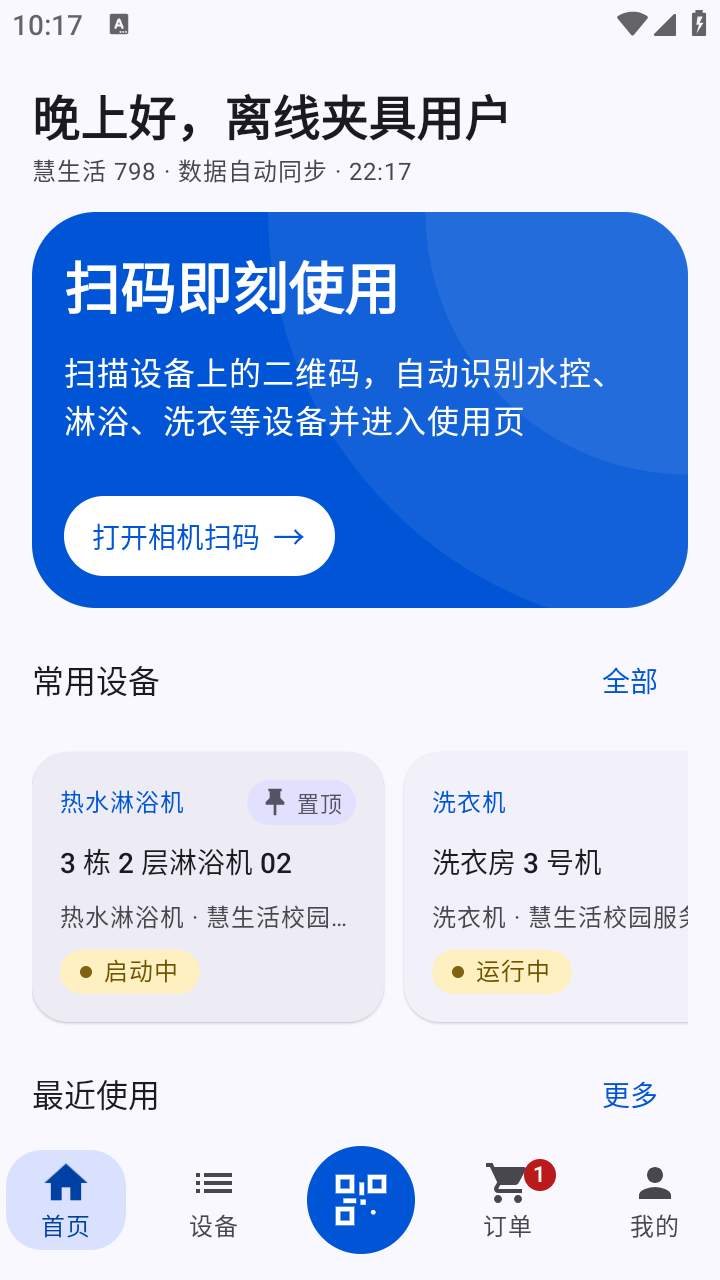
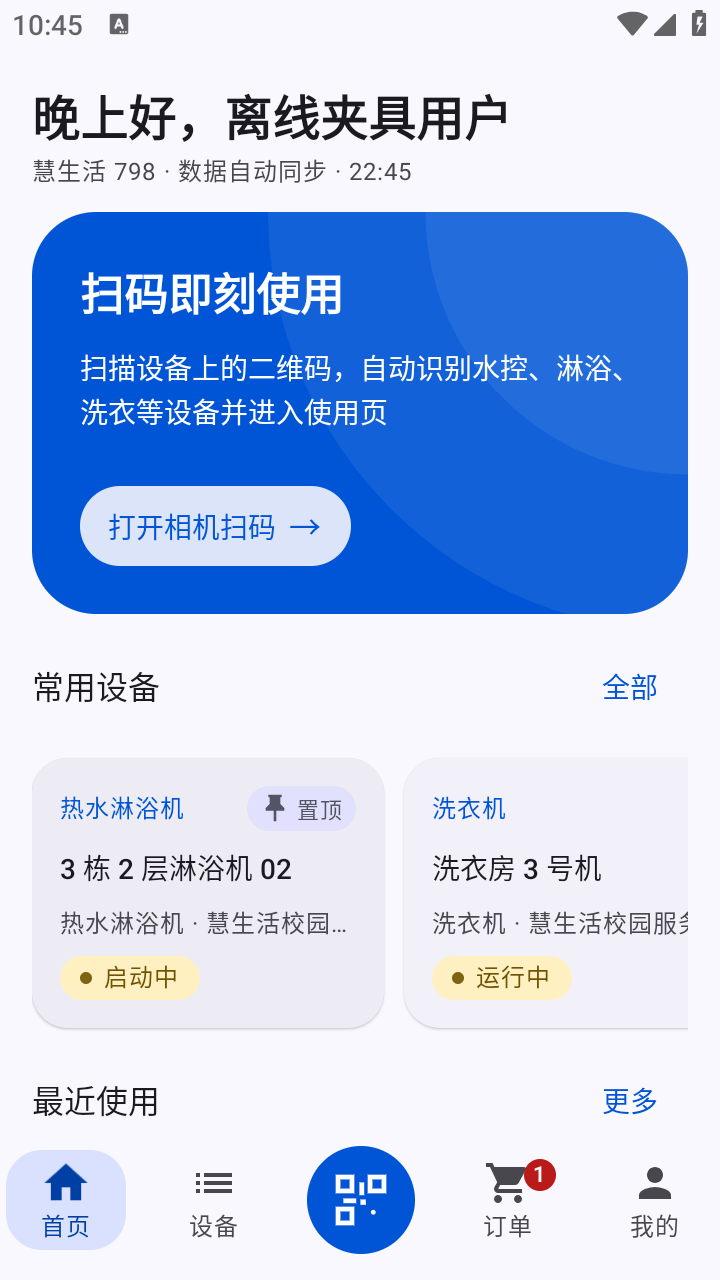
fix(ui): 改善账单开场反馈、预测返回与扫码卡片层级 (#67)
* fix(ui): 改善账单打开反馈与返回手势并舒缓扫码卡片

* test(ui): 验证账单预测返回预览与取消

---------

diff --git a/SmartLife798/app/src/androidTest/java/com/smartlife798/app/BillSheetChecks.kt b/SmartLife798/app/src/androidTest/java/com/smartlife798/app/BillSheetChecks.kt
@@ -71,8 +71,8 @@ object BillSheetChecks {
                 val data = when {
                     path.endsWith("/bill/lst-owner") -> gson.toJson(rows)
                     path.endsWith("/bill/view-full") -> {
-                        details.incrementAndGet()
-                        Thread.sleep(250)
+                        val read = details.incrementAndGet()
+                        Thread.sleep(if (read >= 3) 1800 else 250)
                         val id = chain.request().url.queryParameter("id")
                         // Also cover view-full omitting bill: production must retain the clicked row.
                         gson.toJson(if (id == short.id) BillDetail() else BillDetail(bill = long))
@@ -119,10 +119,40 @@ object BillSheetChecks {
                 stage = "open $label"
                 await { find(test, label) != null }
                 click(test, label)
-                click(test, label)
+                // The summary now opens immediately and covers the source row.
+                // A second tap must target the visible sheet, not the hidden list.
                 await { find(test, "账单详情") != null }
                 stage = "settled height $label"
                 val before = stableTitle(test, "账单详情", measurements)
+                if (android.os.Build.VERSION.SDK_INT >= 34 && label == "短账单夹具") {
+                    stage = "predictive back previews and cancels"
+                    val display = test.targetContext.resources.displayMetrics
+                    val down = SystemClock.uptimeMillis()
+                    fun touch(action: Int, x: Float) {
+                        val event = android.view.MotionEvent.obtain(down, SystemClock.uptimeMillis(),
+                            action, x, display.heightPixels * 0.6f, 0)
+                        event.source = android.view.InputDevice.SOURCE_TOUCHSCREEN
+                        check(test.uiAutomation.injectInputEvent(event, true))
+                        event.recycle()
+                    }
+                    touch(android.view.MotionEvent.ACTION_DOWN, 1f)
+                    for (step in 1..20) {
+                        touch(android.view.MotionEvent.ACTION_MOVE, display.widthPixels * 0.4f * step / 20)
+                        Thread.sleep(20)
+                    }
+                    Thread.sleep(200)
+                    val preview = bounds(find(test, "账单详情") ?: error("preview missing"))
+                    screenshot(test, "bill-back-preview.png")
+                    for (step in 19 downTo 0) {
+                        touch(android.view.MotionEvent.ACTION_MOVE, 1f + display.widthPixels * 0.4f * step / 20)
+                        Thread.sleep(20)
+                    }
+                    touch(android.view.MotionEvent.ACTION_UP, 1f)
+                    Thread.sleep(500)
+                    check(find(test, "账单详情") != null) { "cancel dismissed detail" }
+                    check(preview.width() < before.width()) { "no predictive scaling: before=$before preview=$preview" }
+                    measurements.add("predictive width ${before.width()} -> ${preview.width()}, cancel retained detail")
+                }
                 if (label == "长账单夹具") {
                     check(find(test, "去支付") != null)
                     fun actionBounds(label: String): android.graphics.Rect {
@@ -163,13 +193,14 @@ object BillSheetChecks {
             stage = "reopen and logout isolation"
             click(test, "短账单夹具")
             await { find(test, "账单详情") != null }
-            stableTitle(test, "账单详情", measurements)
             click(test, "关闭账单详情")
             await { find(test, "账单详情") == null && find(test, "短账单夹具") != null }
+            Thread.sleep(2200)
+            check(find(test, "账单详情") == null) { "late detail response reopened dismissed sheet" }
             check(details.get() == 3 && writes.get() == 0)
             check(Store.token.isNullOrBlank() && Store.active() == null && Store.pendingStart() == null)
             check(Store.updatePolicyJson == originalPolicy && Store.originalAppVersion == originalProtocol)
-            result.putString("stream", "PASS: rapid taps coalesce, short/missing bill fallback, long content, stable detail/payment bounds, fixed header/pay action after scroll, sequential sheet handoff, channel error/retry, Back/reopen; reads=${details.get()}, payments/commands=${writes.get()}, overflowSelections=$overflowSelections; ${measurements.joinToString()}; fully intercepted offline fixtures\n")
+            result.putString("stream", "PASS: immediate summary, late response cannot reopen, short/missing bill fallback, long content, stable detail/payment bounds, fixed header/pay action after scroll, sequential sheet handoff, channel error/retry, Back/reopen; reads=${details.get()}, payments/commands=${writes.get()}, overflowSelections=$overflowSelections; ${measurements.joinToString()}; fully intercepted offline fixtures\n")
             code = Activity.RESULT_OK
         } catch (error: Exception) {
             screenshot(test, "bill-sheet-failure.png")

diff --git a/SmartLife798/app/src/main/java/com/smartlife798/app/ui/OrdersScreen.kt b/SmartLife798/app/src/main/java/com/smartlife798/app/ui/OrdersScreen.kt
@@ -306,13 +306,14 @@ fun OrdersScreen(vm: MainViewModel, onOpenDevice: (String, CardOrigin) -> Unit) 
                                 bill = bill,
                                 onClick = openDetail@{
                                     if (!sceneActiveState.value || detailLoading || detail != null || payTarget != null) return@openDetail
+                                    detail = BillDetail(bill = bill)
                                     detailLoading = true
                                     detailScope.launch {
                                         try {
                                             when (val res = vm.billDetail(bill.id)) {
                                                 is Res.Ok -> {
                                                     // A newer payment request takes precedence over this read.
-                                                    if (sceneActiveState.value && payTarget == null) {
+                                                    if (sceneActiveState.value && payTarget == null && detail?.bill?.id == bill.id) {
                                                         val loaded = res.data
                                                         detail = if (loaded?.bill != null) loaded
                                                         else BillDetail(bill = bill, cnt = loaded?.cnt)
@@ -398,6 +399,7 @@ fun OrdersScreen(vm: MainViewModel, onOpenDevice: (String, CardOrigin) -> Unit) 
             BillDetailSheet(
                 detail = detailValue,
                 enabled = !closing,
+                loading = detailLoading,
                 onDismiss = { closeDetail() },
                 onPay = { bill -> closeDetail { payTarget = bill } },
             )
@@ -489,6 +491,7 @@ private fun BillRow(bill: Bill, onClick: () -> Unit, onPay: () -> Unit) {
 private fun BillDetailSheet(
     detail: BillDetail,
     enabled: Boolean,
+    loading: Boolean,
     onDismiss: () -> Unit,
     onPay: (Bill) -> Unit,
 ) {
@@ -506,9 +509,12 @@ private fun BillDetailSheet(
                 shapes = IconButtonDefaults.shapes(),
             ) { Icon(Icons.Filled.Close, contentDescription = "关闭账单详情") }
         }
+        androidx.compose.foundation.layout.Box(Modifier.fillMaxWidth().height(4.dp)) {
+            if (loading) LinearWavyProgressIndicator(Modifier.fillMaxWidth())
+        }
         if (bill != null) {
             Surface(
-                color = MaterialTheme.colorScheme.secondaryContainer,
+                color = MaterialTheme.colorScheme.surfaceContainerLow,
                 shape = MaterialTheme.shapes.large,
                 modifier = Modifier.fillMaxWidth(),
             ) {
@@ -576,7 +582,7 @@ private fun BillDetailSheet(
                 ) { Text("暂不支付") }
                 Button(
                     onClick = { onPay(payableBill) },
-                    enabled = enabled,
+                    enabled = enabled && !loading,
                     modifier = Modifier.weight(1f).fillMaxHeight().heightIn(min = AppLayout.ActionHeight),
                     shapes = androidx.compose.material3.ButtonDefaults.shapes(),
                 ) { Text("去支付") }

diff --git a/SmartLife798/app/src/main/java/com/smartlife798/app/ui/HomeScreen.kt b/SmartLife798/app/src/main/java/com/smartlife798/app/ui/HomeScreen.kt
@@ -327,24 +327,24 @@ private fun ScanHeroCard(onScan: () -> Unit) {
                     drawCircle(onContainer.copy(alpha = 0.07f), size.width * 0.64f, center)
                     drawCircle(onContainer.copy(alpha = 0.07f), size.width * 0.40f, center)
                 }
-                .padding(AppLayout.Card),
+                .padding(24.dp),
             verticalArrangement = Arrangement.spacedBy(10.dp),
         ) {
             Text(
                 "扫码即刻使用",
-                style = MaterialTheme.typography.headlineMedium,
+                style = MaterialTheme.typography.titleLarge,
                 color = onContainer,
                 fontWeight = FontWeight.Bold,
             )
             Text(
                 "扫描设备上的二维码，自动识别水控、淋浴、洗衣等设备并进入使用页",
-                style = MaterialTheme.typography.bodyLarge,
+                style = MaterialTheme.typography.bodyMedium,
                 fontWeight = FontWeight.Normal,
                 color = onContainer,
             )
             Spacer(Modifier.height(6.dp))
             Surface(
-                color = onContainer,
+                color = MaterialTheme.colorScheme.surface.copy(alpha = 0.88f),
                 shape = RoundedCornerShape(50),
             ) {
                 Row(
@@ -354,10 +354,10 @@ private fun ScanHeroCard(onScan: () -> Unit) {
                     Text(
                         "打开相机扫码",
                         style = MaterialTheme.typography.labelLarge,
-                        color = container,
+                        color = MaterialTheme.colorScheme.primary,
                     )
                     Spacer(Modifier.width(6.dp))
-                    Text("→", color = container)
+                    Text("→", color = MaterialTheme.colorScheme.primary)
                 }
             }
         }

diff --git a/SmartLife798/app/src/main/java/com/smartlife798/app/MainActivity.kt b/SmartLife798/app/src/main/java/com/smartlife798/app/MainActivity.kt
@@ -8,7 +8,6 @@ import android.os.Bundle
 import android.net.Uri
 import androidx.activity.ComponentActivity
 import androidx.activity.compose.setContent
-import androidx.activity.compose.BackHandler
 import androidx.activity.enableEdgeToEdge
 import androidx.compose.animation.SharedTransitionLayout
 import androidx.compose.animation.EnterTransition
@@ -64,7 +63,6 @@ import androidx.compose.runtime.Composable
 import androidx.compose.runtime.CompositionLocalProvider
 import androidx.compose.runtime.LaunchedEffect
 import androidx.lifecycle.compose.collectAsStateWithLifecycle
-import androidx.lifecycle.compose.currentStateAsState
 import androidx.compose.runtime.getValue
 import androidx.compose.runtime.remember
 import androidx.compose.runtime.rememberCoroutineScope
@@ -530,13 +528,7 @@ private fun AppRoot(
                         }
                     }
                 }
-                // NavHost can ignore Back while the incoming entry is STARTED.
-                // A normal Back must also reverse an unfinished card transition.
-                val navigationState = currentEntry?.lifecycle?.currentStateAsState()?.value
-                BackHandler(enabled = navController.previousBackStackEntry != null &&
-                    (sharedScope.isTransitionActive || navigationState == androidx.lifecycle.Lifecycle.State.STARTED)) {
-                    navController.popBackStack()
-                }
+
             }
         }
     }

diff --git a/docs/02-功能设计与UI方案.md b/docs/02-功能设计与UI方案.md
@@ -316,7 +316,7 @@ App
 - 底部导航（Expressive）：4 项 + 中央 54dp 官方增强扫码按钮；选中项为药丸高亮 + 图标 1.08 倍弹性缩放 + 颜色渐变，未选中项使用 onSurfaceVariant。待付角标放在图标槽内，不越过药丸裁剪边界，保持大字体下数字完整与各项图标/文字基线一致。
 - 主题采用官方 `MaterialExpressiveTheme` 与 `MotionScheme.expressive()`；主按钮、文字和图标按钮使用官方按压形变。设备/订单分栏、筛选、设备类型、模式和渠道使用带自动溢出的 `ButtonGroup`；全部可见时按压扩张 25%，相邻按钮随之让位并回弹，溢出时停用宽度扩张以免覆盖「更多」，保留官方按钮形变。启动页与外观使用共享交互源的官方宽度动效，保持仅背景选中和单选语义，大字选项自然换行并垂直居中。扫码使用增强 `FilledIconButton`。刷新指示器使用 `surfaceContainerHigh` 中性底与 `primary` 图形，保留官方下拉与形变加载，浅色、深色及动态取色共用主题语义色。设备/订单第一行分栏使用实心主色选中，第二行类型/账单筛选使用低强调色调与较小文字，未选中项也使用 surfaceContainerHighest 背景与 outlineVariant 边界；统一选择按钮的基础与选中圆角为 14dp，按压仍使用官方形变。按钮、选择与加载沿用系统动画倍率，无额外固定操作锁。
 - 加载：页面使用 `ContainedLoadingIndicator`，按钮内使用 `LoadingIndicator`，下拉刷新使用固定组合的官方轻量 `PullToRefreshDefaults.Indicator`，避免手势首帧创建复杂形变组件；拉动距离、松手和刷新沿用同一个手势状态。长任务与更新下载使用 `LinearWavyProgressIndicator`；下载仍显示真实字节百分比，未确定进度不伪装为确定进度。删除旧自绘波浪实现。
-- 首页扫码主卡与中央扫码按钮使用同一组高亮主题配对；主卡使用水波纹背景、较大标题与统一 16dp 留白；空态使用色调图标容器，设备卡统一主题圆角。静态装饰不引入持续动画。
+- 首页扫码主卡与中央扫码按钮使用同一组高亮主题配对；主卡使用水波纹背景、titleLarge 标题、bodyMedium 正文与 24dp 留白，内部提示按钮使用浅色表面；空态使用色调图标容器，设备卡统一主题圆角。静态装饰不引入持续动画。
 - 按压反馈由增强组件的形状与主题动效驱动；共享卡片与页面切换规则见下节，不为按钮再叠统一缩放或固定时长。
 - 状态胶囊、指标块、信息行、空态、错误态、提示条、设备卡、账单行、底部详情面板。
 
@@ -334,7 +334,7 @@ App
 - 首页、设备、订单、我的属于同级页面，切换及回首页不做空间位移。详情覆盖时仅保留当前一个主页面实体及其滚动、筛选状态，返回后直接接收首个触摸，不等列表重建；继续使用 NavHost 的真实可见性作用域驱动共享与预测返回。同级页失活时隔离触摸和无障碍语义、暂停刷新并收起独立弹窗，导航前释放来源焦点和键盘；不提前整页裁剪。全屏详情失活后立即裁空本地图层以释放触摸；共享过渡激活前用页面覆盖层衔接绘制，随后交给共享边界，避免导航条目切换时交接空帧。
 - 使用 [Google Compose 共享元素 API](https://developer.android.com/develop/ui/compose/animation/shared-elements)：根 `SharedTransitionLayout` 配合 NavHost 的 `AnimatedVisibilityScope`，卡片与对应全屏页通过 `sharedBounds` 展开/收回。页面采用 `ResizeMode.scaleToBounds(ContentScale.FillWidth, Alignment.TopStart)`，按最终视口测量并复用共享容器框架已有的绘制层，动画只变换和裁剪图层，不将逐帧尺寸约束传给内容重排。钱包 TITLE 键仍通过共享文字 bounds 缩放，AMOUNT 保留独立 `sharedElement`。容器圆角随卡片/全屏状态变化，加载与错误页也在同一容器内。
 - 设备入口覆盖首页收藏、最近、进行中卡片，设备列表和订单进行中卡片；扫码页对应首页扫码卡或底部扫码按钮，手输页对应相机右上角入口，钱包页对应「我的」钱包区域。匹配键包含来源导航条目、入口区域、设备 id 及内容部分，避免同一设备多处出现时串卡。详情来源的点击区域位于共享变形外层，保持列表占位处可点；离开当前导航条目的页面清除无障碍语义；本地图层裁空与绘制分离：交接前用页面覆盖层保留像素，交接后由共享覆盖层绘制，触摸立即释放；保留框架返回处理，共享卡片仍在覆盖层绘制，连续重开仍核对来源条目。
-- 预测性返回由 NavHost 寻帧，取消恢复当前页，完成收回原入口；来源被移除或未参与布局时退化为淡变。扫描/手输解析成功会移除扫描栈，设备详情没有卡片来源，此时使用 [官方全屏返回示例](https://developer.android.com/develop/ui/compose/system/predictive-back-setup) 的 100%→90% 返回预览、110%→100% 打开并淡入。
+- 预测性返回由 NavHost 寻帧（不再以普通 BackHandler 抢占过渡期间的返回），取消恢复当前页，完成收回原入口；来源被移除或未参与布局时退化为淡变。扫描/手输解析成功会移除扫描栈，设备详情没有卡片来源，此时使用 [官方全屏返回示例](https://developer.android.com/develop/ui/compose/system/predictive-back-setup) 的 100%→90% 返回预览、110%→100% 打开并淡入。
 - 容器与导航过渡使用 Compose 默认动画规格和系统 Animator 倍率，不指定自定义曲线或毫秒数；未匹配的卡片不附加圆角动画。共享过渡使用 Compose 1.10.6 稳定 API，移除旧实验注解；Navigation 保留 2.9.6。版本与坐标跟踪优化依据见 docs/03。
 - 圆角在绘制阶段读取动画值，复用裁剪路径；设备详情从 VM 账号内存状态读取名称、类型、编号作为首屏，不读盘或增加另一套缓存。主卡预先组合操作区、模式/更新时间行和模式选择骨架并保持禁用，完整响应到达后只填入内容与可用状态，减少飞入中首次创建复杂控件的峰值；等待时不展示缓存模式名称或允许选择，缓存不能授权启停或支付。详情各区使用稳定 LazyColumn key，减少加载区移除后其他区的组合槽位变动。
 - 详情页创建即请求，与进场并行；成功/失败响应立即发布，可在飞入过程中渲染。加载期间导航/前台刷新信号合并，不取消重启当前请求；后续刷新继续有效，失败保留已知身份和重试。离开页面取消页面任务，无固定延时。设备页仅使用共享容器本身的淡变，避免 NavHost 再叠整页 alpha；无卡片来源仍保留原 fade+scale。
@@ -361,7 +361,7 @@ App
 
 | 页面 | 文件 | 来源与限制 |
 |---|---|---|
-| 首页 | [home.png](../screenshots/home.png) | 本次样式开发构建 2.1.2 / 70，API 28，紧凑等高卡片 |
+| 首页 | [home.png](../screenshots/home.png) | 2.1.4 / 72 离线开发构建，API 28，扫码卡片留白及字号调整 |
 | 设备 | [devices.png](../screenshots/devices.png) | 2.1.1，浅色列表、置顶优先与可辨识的未选中按钮 |
 | 订单 | [orders.png](../screenshots/orders.png) | 2.1.1，普通记录 |
 | 待付款 | [preview_bills.png](../screenshots/preview_bills.png) | 2.1.1，账单筛选 |
@@ -421,7 +421,7 @@ App
 
 工具页按“界面与引导”“设备诊断”分组，以主题色概览容器、带图标的整行工具卡片和明确的尾部方向标识组织入口；关闭开发者工具使用独立按钮。全部控件采用 Expressive 按钮形变和主题色，长说明可换行，小屏/大字可滚动。NFC 子页独立显示采集状态容器和全宽开始/停止/导出操作，保留原来的显式采集、离页停止与原始记录边界。
 
-未付账单详情左侧为“暂不支付”、右侧为“去支付”，等宽等高且固定在明细滚动区域之外；大字体允许共同增高。“暂不支付”、标题关闭和系统返回都只关闭面板，保留待付账单，不请求关闭支付交易、不改本地或服务端账单状态。界面说明可稍后回到订单页继续支付；“去支付”仍先关闭详情，再打开支付面板。原版充值账单取消链路尚未查证，不再提供无依据的“取消订单”或取消成功提示，没有添加退款能力；已被服务端取消的历史账单仍按状态 9 展示。
+账单点击即展示已有摘要，读取期间固定进度槽并禁用支付，关闭后迟到响应不重新打开面板。Material3 面板保留 Android 14 及以上的系统预测性返回。未付账单详情左侧为“暂不支付”、右侧为“去支付”，等宽等高且固定在明细滚动区域之外；大字体允许共同增高。“暂不支付”、标题关闭和系统返回都只关闭面板，保留待付账单，不请求关闭支付交易、不改本地或服务端账单状态。界面说明可稍后回到订单页继续支付；“去支付”仍先关闭详情，再打开支付面板。原版充值账单取消链路尚未查证，不再提供无依据的“取消订单”或取消成功提示，没有添加退款能力；已被服务端取消的历史账单仍按状态 9 展示。
 
 ### 卡片与更新来源
 

diff --git a/README.md b/README.md
@@ -5,7 +5,7 @@
 | | |
 |---|---|
 | 新客户端包名 | `com.smartlife798.app` |
-| 当前版本 | `2.1.3`（`versionCode 71`） |
+| 当前版本 | `2.1.4`（`versionCode 72`） |
 | 技术栈 | Kotlin 2.2 · Jetpack Compose (Material 3 Expressive) · OkHttp · CameraX + ML Kit · Alipay SDK |
 | 最低版本 | Android 7.0（API 24） |
 | 最新已发布 | [2.1.0 release APK](https://github.com/wu-shanglin/Smartlife798/releases/download/v2.1.0/SmartLife798-2.1.0-release.apk) · [发布说明](https://github.com/wu-shanglin/Smartlife798/releases/tag/v2.1.0) |
@@ -14,7 +14,7 @@
 
 ## 当前版本
 
-**2.1.3 / 71**（本地候选，未发布）：恢复常用设备紧凑高度、减轻按钮背景层级并美化检查更新入口；统一页面对齐与按钮高度、在线绿色/使用中黄色状态及未选中按钮背景，修复置顶卡片高度、近期记录合并与待付查询账号隔离；详情保留当前来源页并隔离后台刷新，避免快速返回时列表重建；账单左键“暂不支付”只关闭面板并保留待付，真实取消仍需接口依据，见 docs/05。2.0.0 启用全新独立 release 签名，停止支持此前所有版本。旧签名应用无法覆盖升级，请先结束设备使用、核对账单，再卸载旧应用，从正式 Release 页面下载新版安装并重新登录。卸载会删除本机常用/最近/置顶及设置；服务端账号数据以重新登录后的返回为准。新版保留浅色卡片、统一置顶、三页引导及安全镜像更新。
+**2.1.4 / 72**（本地候选，未发布）：账单点击立即展开摘要并加载详情，修复导航返回拦截；扫码卡片增加留白、缩小文案与减轻内部按钮底色；恢复常用设备紧凑高度、减轻按钮背景层级并美化检查更新入口；统一页面对齐与按钮高度、在线绿色/使用中黄色状态及未选中按钮背景，修复置顶卡片高度、近期记录合并与待付查询账号隔离；详情保留当前来源页并隔离后台刷新，避免快速返回时列表重建；账单左键“暂不支付”只关闭面板并保留待付，真实取消仍需接口依据，见 docs/05。2.0.0 启用全新独立 release 签名，停止支持此前所有版本。旧签名应用无法覆盖升级，请先结束设备使用、核对账单，再卸载旧应用，从正式 Release 页面下载新版安装并重新登录。卸载会删除本机常用/最近/置顶及设置；服务端账号数据以重新登录后的返回为准。新版保留浅色卡片、统一置顶、三页引导及安全镜像更新。
 
 最新公开版本为 **2.1.0 / 68**，最低支持码 **66**，低于该码的版本停止支持。官方 latest 更新策略已核对；镜像同步状态以实际访问为准。[正式 APK](https://github.com/wu-shanglin/Smartlife798/releases/download/v2.1.0/SmartLife798-2.1.0-release.apk) · [安装与发布说明](https://github.com/wu-shanglin/Smartlife798/releases/tag/v2.1.0)。停用仅约束已取得有效官方策略且具有门禁功能的客户端，不能远程停用离线或无门禁旧版。
 
@@ -48,7 +48,7 @@
 
 | 本地构建 | 文件 |
 |---|---|
-| 产物 | [`dist/SmartLife798-2.1.3-release.apk`](dist/SmartLife798-2.1.3-release.apk) |
+| 产物 | [`dist/SmartLife798-2.1.4-release.apk`](dist/SmartLife798-2.1.4-release.apk) |
 
 交付包使用既有 2.x release 签名的非 debuggable release 构建。
 
@@ -58,7 +58,7 @@
 
 ## 截图
 
-首页和浅深色外观截图已在 API 28 以本次样式调整后的 2.1.2 / 70 开发构建重采；其他主要截图来自 2.1.1 / 69 候选的独立 `.offline` 夹具，使用真实 Compose 页面与终止式传输采集；默认字号与窄屏大字均完成操作回归，不代表真机帧率、签到、充值或支付验收。提示条保留历史夹具来源。来源与限制见 [截图清单](docs/02-功能设计与UI方案.md#7-界面截图)。
+首页截图已在 API 28 以 2.1.4 / 72 离线开发构建重采，浅深色首页均完成本次离线回归；其他主要截图来自 2.1.1 / 69 候选的独立 `.offline` 夹具，使用真实 Compose 页面与终止式传输采集；此前默认字号与窄屏大字完成操作回归，不代表真机帧率、签到、充值或支付验收。提示条保留历史夹具来源。来源与限制见 [截图清单](docs/02-功能设计与UI方案.md#7-界面截图)。
 
 | 首页 | 设备 | 订单 |
 |---|---|---|

diff --git a/CHANGELOG.md b/CHANGELOG.md
@@ -8,9 +8,17 @@
 ## [Unreleased]
 
 
+
+
 - 核对 2.1.0 正式发布及公开更新附件。
 
 - 任务分支完成后同步清理已合并且不再使用的本地和远端分支。
+
+## [2.1.4] - 2026-11-05
+
+> 本地候选，未发布。
+
+- 账单点击即展示已有摘要并加载详情，迟到响应不能重新打开已关闭面板；移除抢占预测性返回的普通导航拦截，保留系统手势预览；扫码卡片增加留白、缩小文案并减轻内部按钮底色。
 
 ## [2.1.3] - 2026-11-05
 
